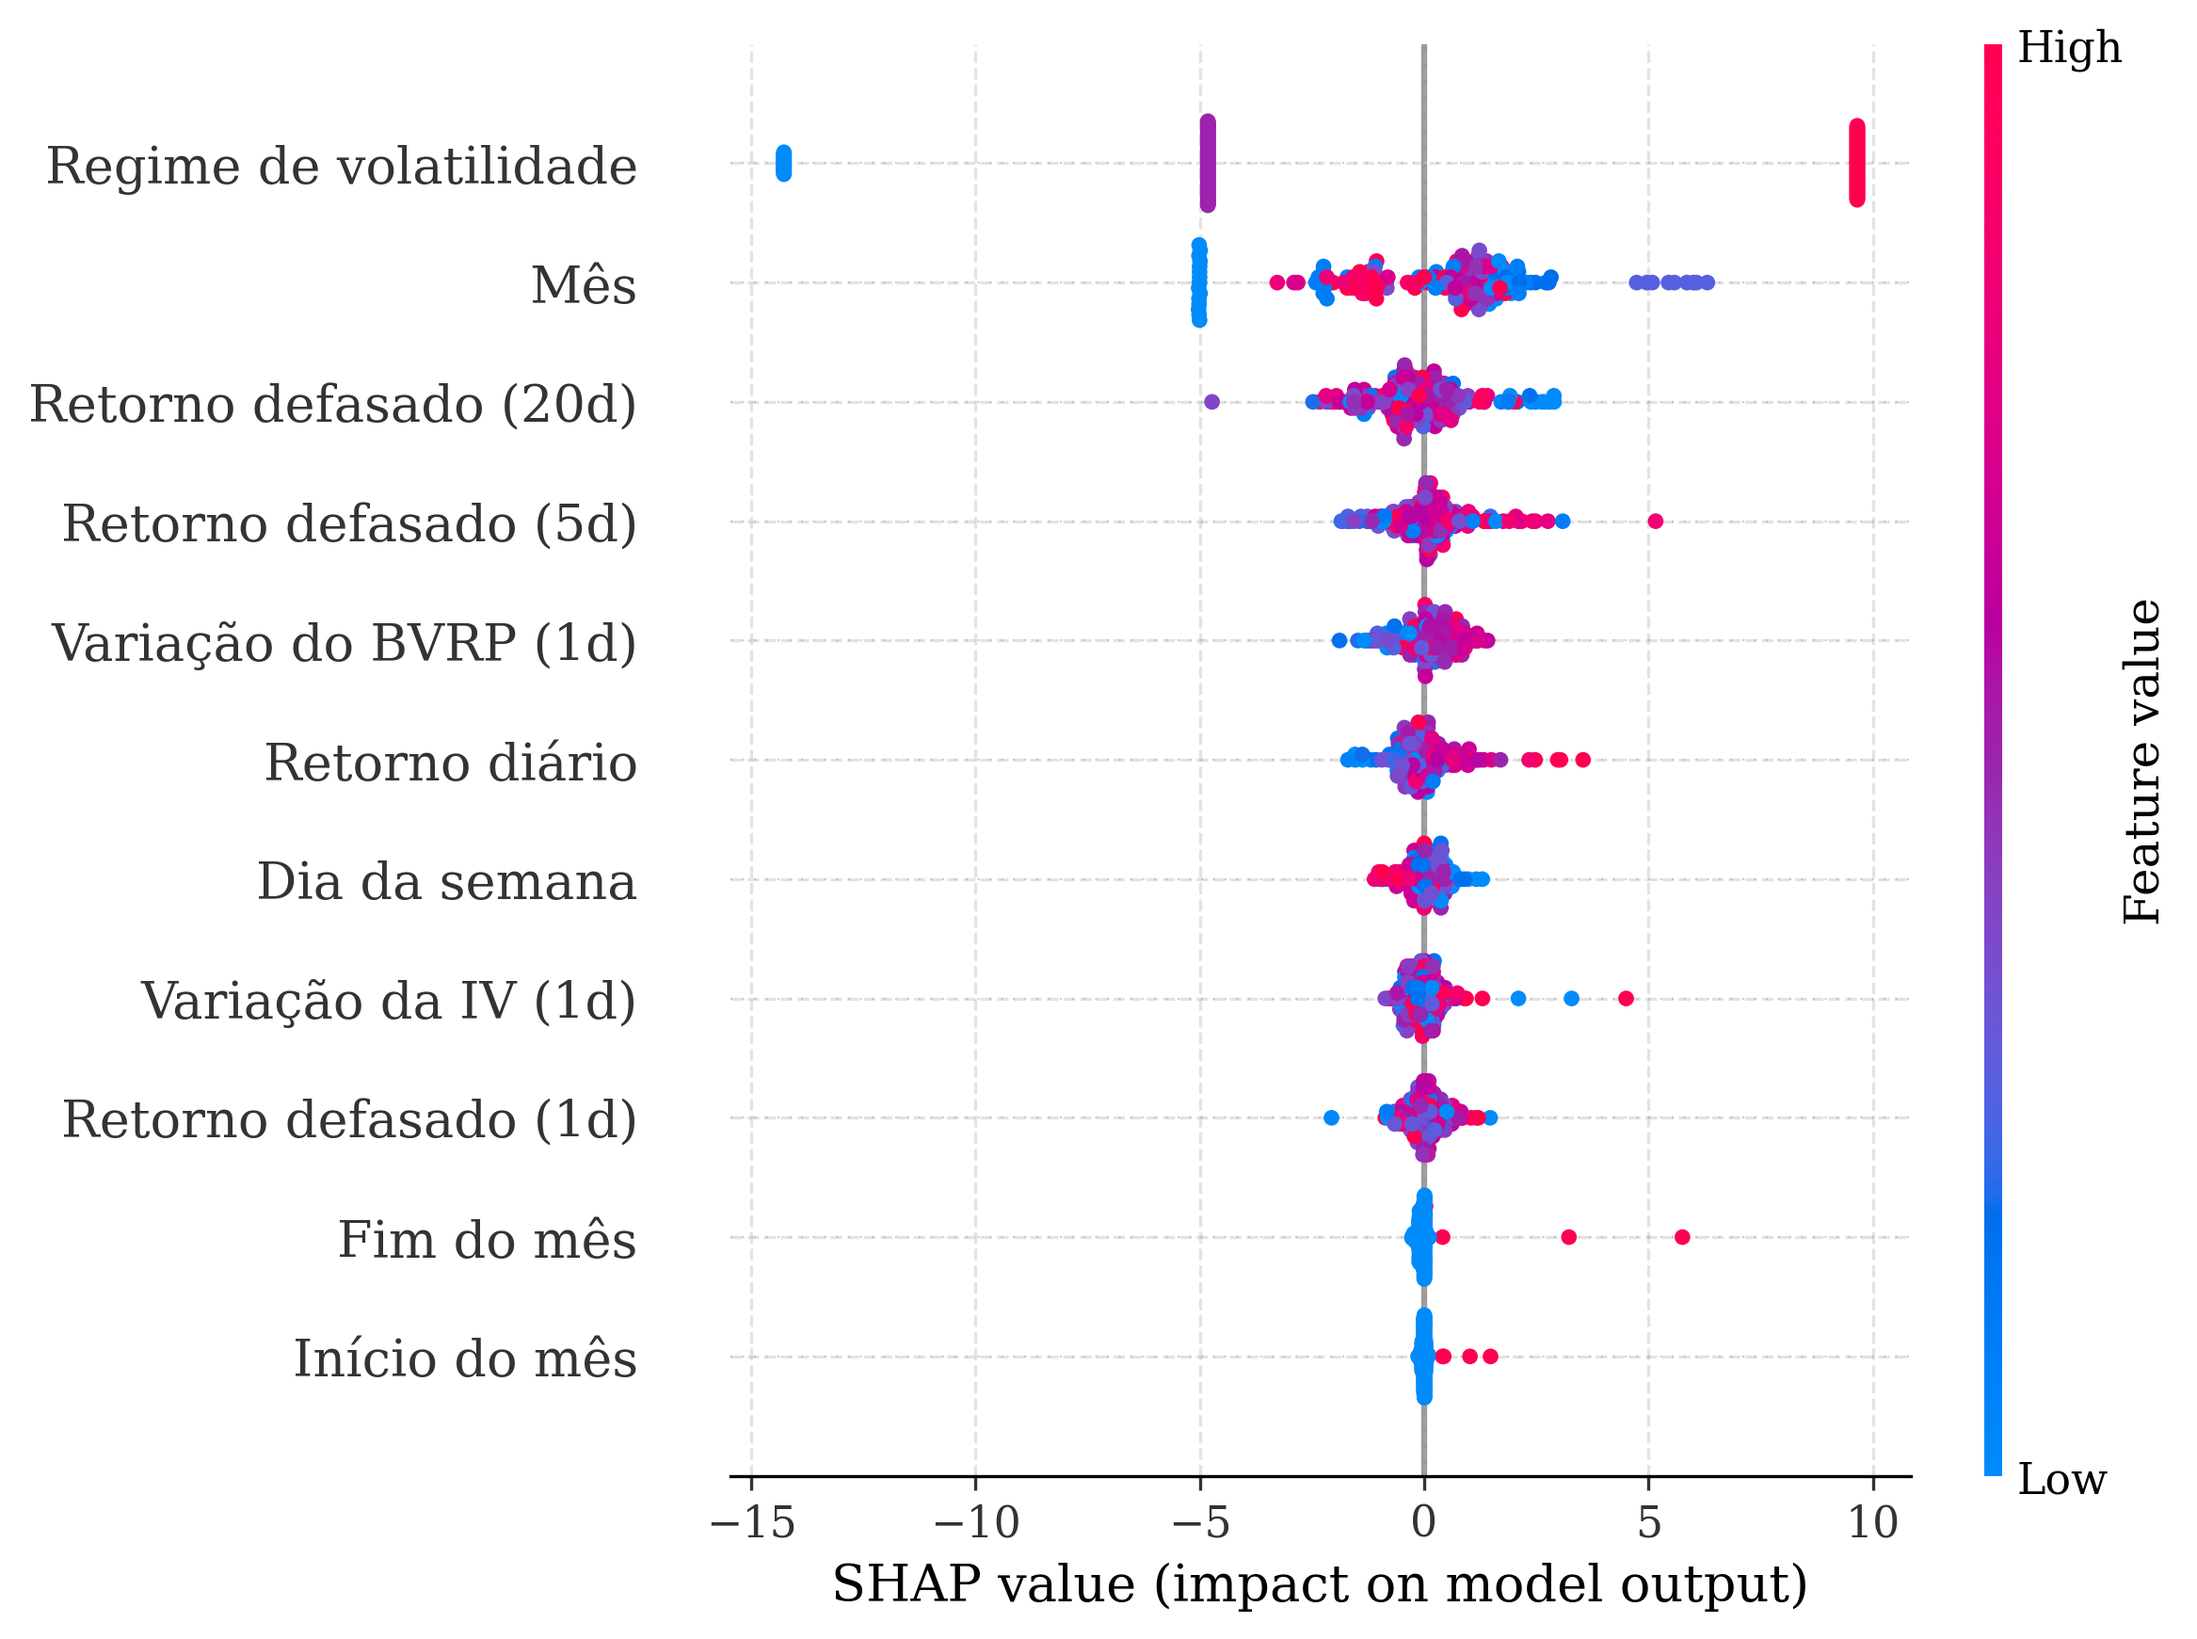
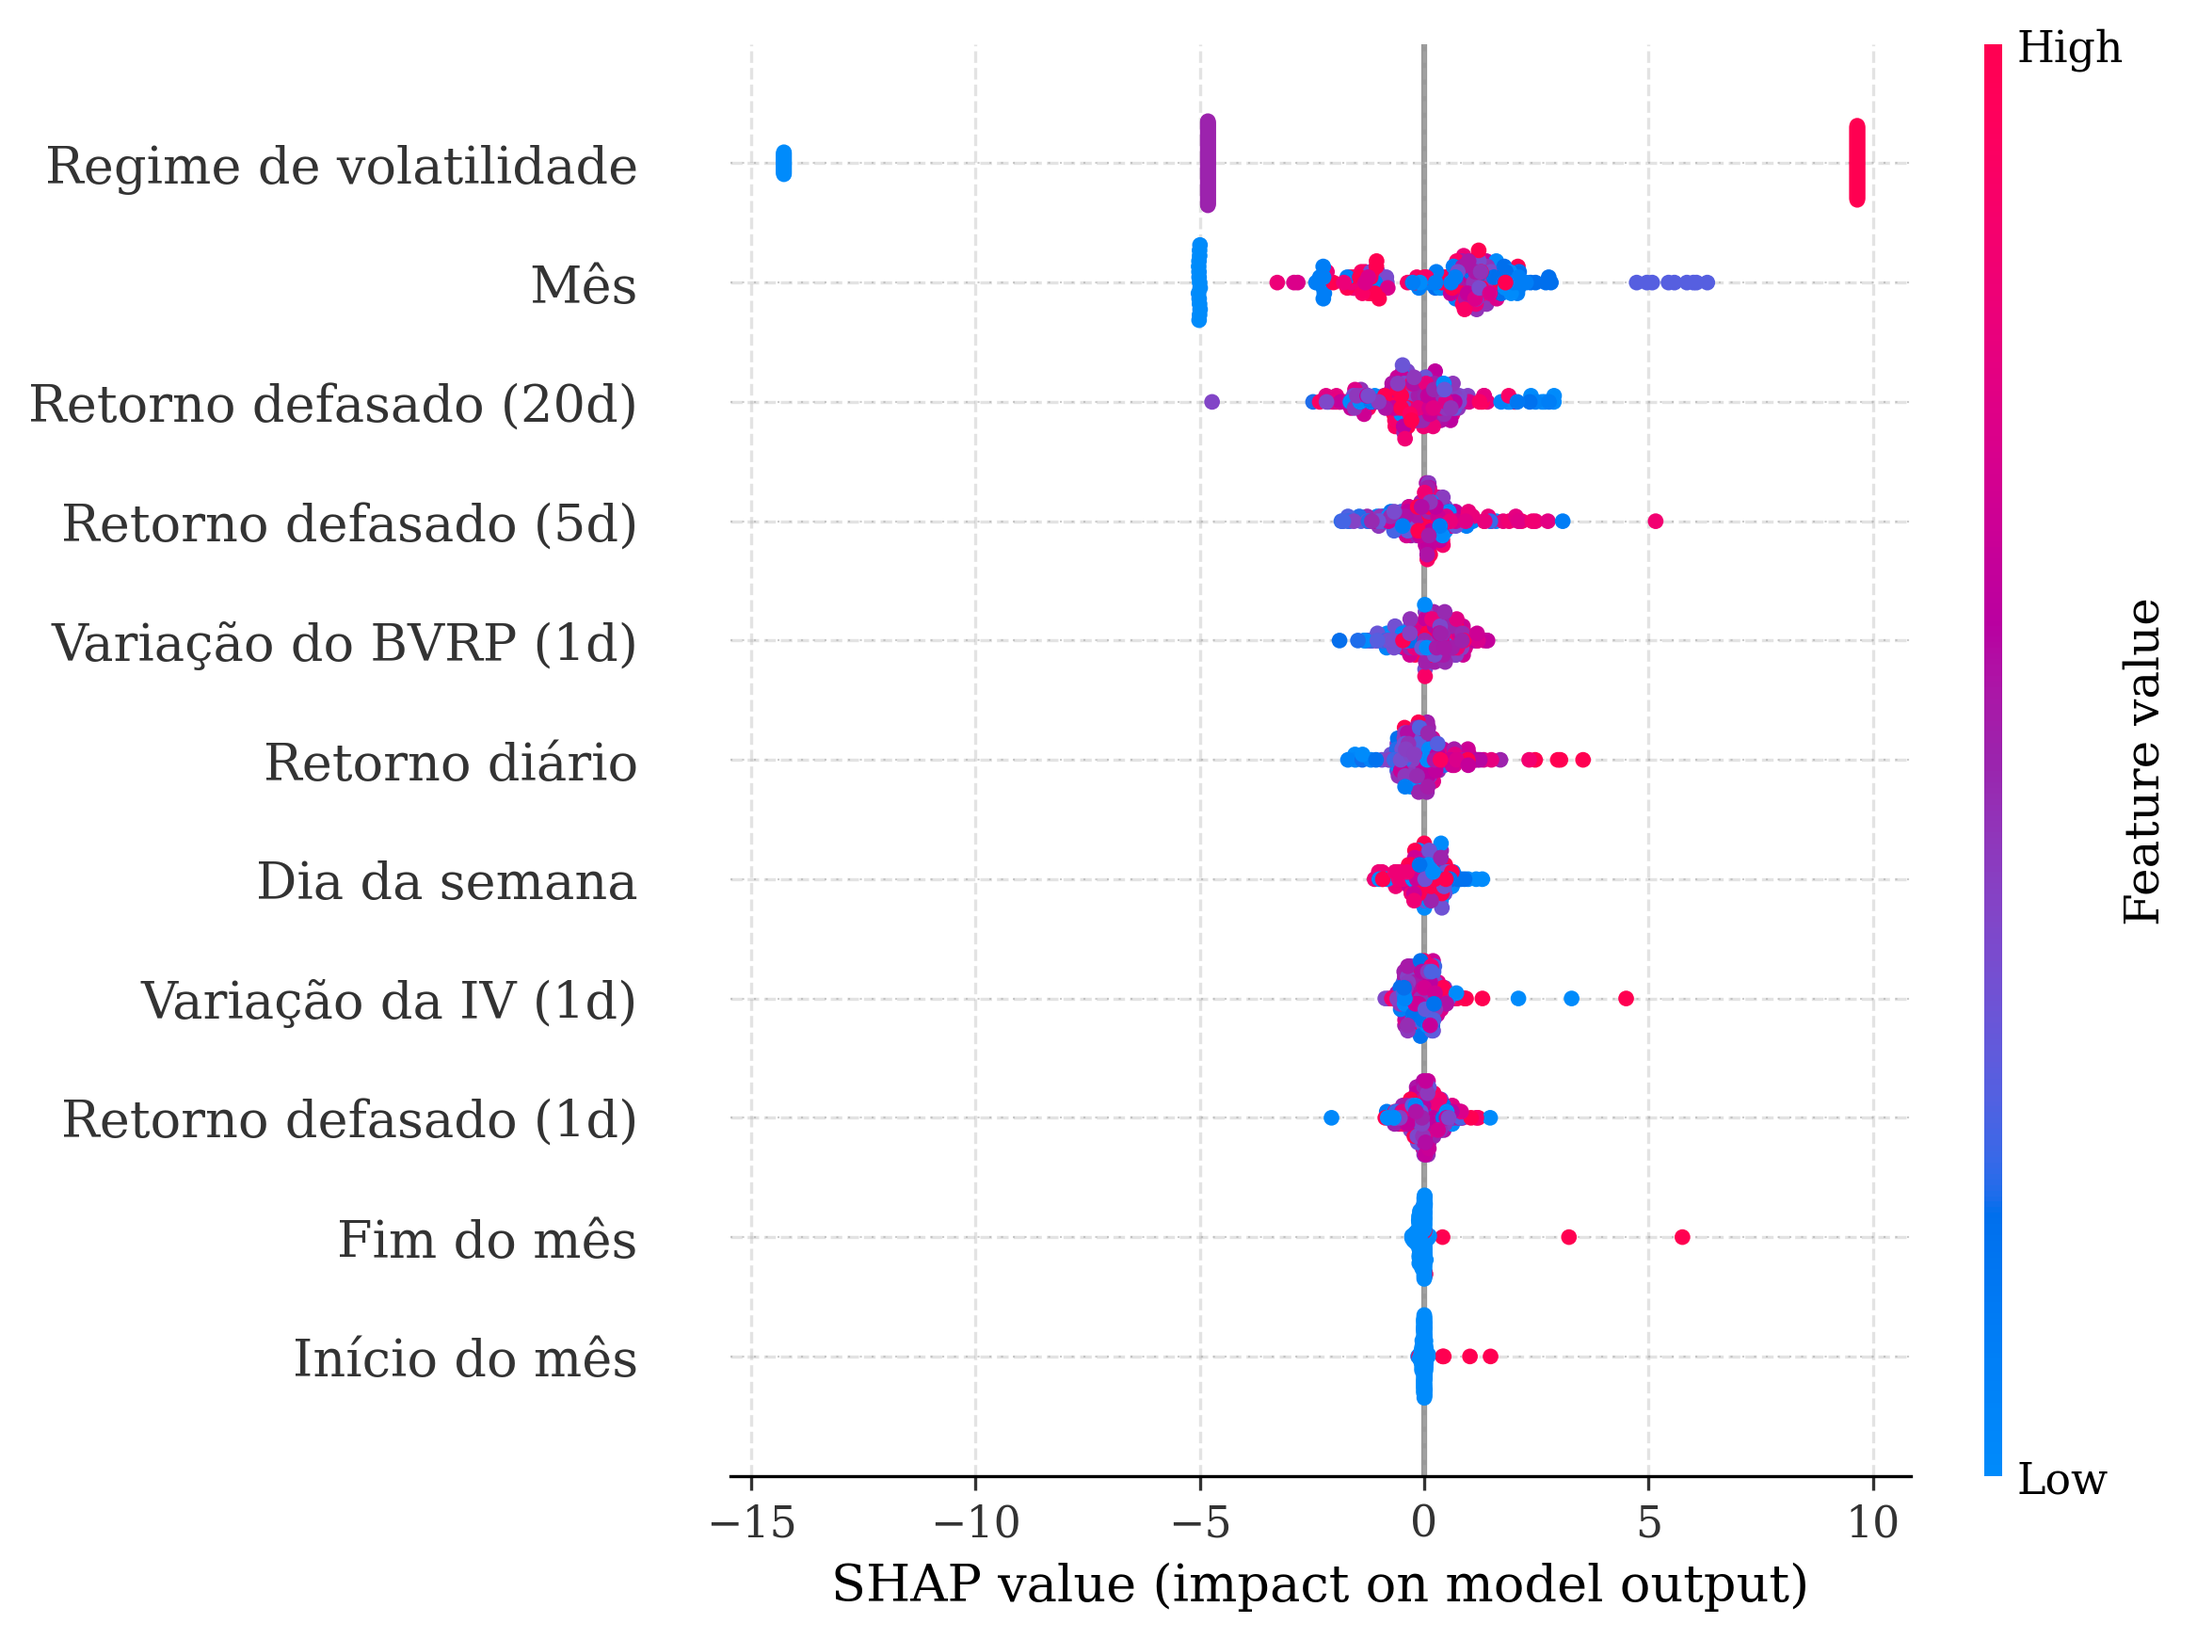
Cap6: adiciona MQO (OLS) como 5o modelo no forecasting, tabela 6.2 regenerada
- regenerate_cap8.py: LinearRegression() adicionada ao dicionario de
  modelos, passando pelo mesmo pipeline dos demais (alvo t+1 via
  shift(-1), mesmas 11 features, mesmo split 70/30, mesma padronizacao).
  Bloco de diagnostico imprime os coeficientes do MQO (nao entra em
  nenhuma tabela ainda).
- tab8_oos_performance.tex regenerada: MQO entra com MSE=76,95 RMSE=8,77
  R2=0,388, entre LASSO e Benchmark (Media) na ordenacao por MSE.
- Confirmado: as outras 5 linhas nao mudaram (persistencia, GB, RF,
  Ridge, LASSO, media -- valores identicos aos ja publicados). Maior
  coeficiente do MQO e 16,89 (Retorno diario), mesma ordem de grandeza
  do LASSO/Ridge para a mesma variavel -- sem blow-up de colinearidade.
  SHAP/Random Forest confirmados intocados (CSV identico byte a byte;
  a figura beeswarm mudou so em compressao PNG, conteudo visualmente
  identico).

Prosa das secoes 6.1/6.4/6.6 e titulo da 6.4 ficam para o commit
seguinte, com os numeros ja confirmados.

diff --git a/scripts/regenerate_cap8.py b/scripts/regenerate_cap8.py
@@ -18,7 +18,7 @@ import pandas as pd
 import shap
 from sklearn.dummy import DummyRegressor
 from sklearn.ensemble import GradientBoostingRegressor, RandomForestRegressor
-from sklearn.linear_model import Lasso, Ridge
+from sklearn.linear_model import Lasso, LinearRegression, Ridge
 from sklearn.metrics import mean_squared_error, r2_score
 
 matplotlib.rcParams.update({
@@ -90,6 +90,7 @@ print(f"Teste  : {X_test.shape}   {y_test.index[0].date()} a {y_test.index[-1].d
 
 # ── 2. Treinar modelos ────────────────────────────────────────────────────────
 models = {
+    "MQO":               LinearRegression(),
     "LASSO":             Lasso(alpha=0.001, max_iter=50_000),
     "Ridge":             Ridge(alpha=1.0),
     "Random Forest":     RandomForestRegressor(n_estimators=300, random_state=42),
@@ -120,6 +121,15 @@ metrics.append({"Modelo": "Persistência (valor anterior)", "MSE": mse_p, "RMSE"
 print(f"  {'Persistência (valor anterior)':20s}  MSE={mse_p:7.3f}  R²={r2_p:.4f}")
 
 results = pd.DataFrame(metrics).sort_values("MSE").reset_index(drop=True)
+
+# Diagnostico: coeficientes do MQO (checar blow-up de colinearidade) -- so print,
+# nao entra em nenhuma tabela ainda.
+mqo_model = models["MQO"]
+mqo_coefs = sorted(zip(X.columns, mqo_model.coef_), key=lambda t: -abs(t[1]))
+print("\n[Diagnostico] Coeficientes MQO (ordenados por |magnitude|):")
+for fname, c in mqo_coefs:
+    label = FEATURE_LABELS.get(fname, fname)
+    print(f"  {label:<28s} {c:+.4f}")
 
 # ── 3. Fig. 8.1 — BVRP realizado vs. Lasso previsto (melhorada) ──────────────
 fig, ax = plt.subplots(figsize=(11, 4))

diff --git a/tables/tab8/tab8_oos_performance.tex b/tables/tab8/tab8_oos_performance.tex
@@ -14,6 +14,7 @@ Gradient Boosting & 70,62 & 8,40 & 0,438 \\
 Random Forest & 72,42 & 8,51 & 0,424 \\
 Ridge & 76,71 & 8,76 & 0,390 \\
 LASSO & 76,88 & 8,77 & 0,388 \\
+MQO & 76,95 & 8,77 & 0,388 \\
 \midrule
 Benchmark (Média) & 138,71 & 11,78 & $-$0,104 \\
 \bottomrule
